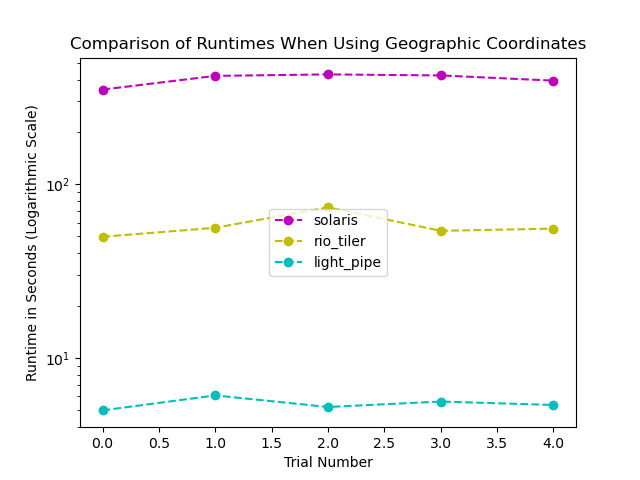
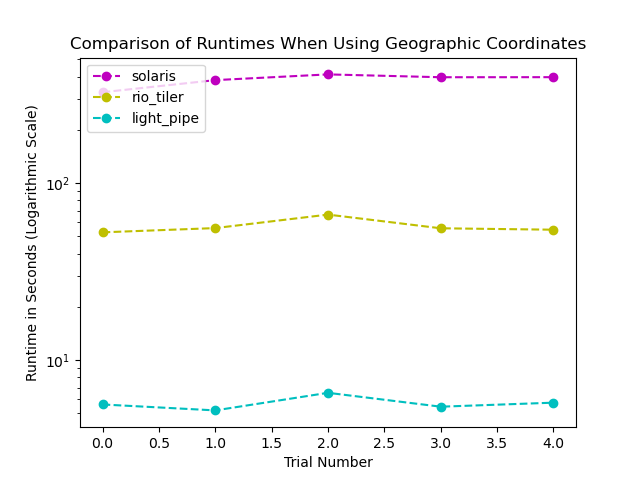
Update docs

diff --git a/docs/index.html b/docs/index.html
@@ -34,16 +34,16 @@
 <p>Here, we're concerned with two measures of efficiency: (a) the length of time it takes to process the data, and (b) the amount of storage space necessary to do so. Although Light-Pipe allows the user to save tiles (i.e. write to disk), this is generally undesirable when working with large quantities of data, since doing so may more than double the disk space required to conduct an analysis. For this reason, Light-Pipe can operate in-memory, which means that no extra storage space is required to process data, and you needn't write anything to disk when using it (unless you want to). Such transformations can be performed "on-the-fly", meaning that Light-Pipe transforms input data as it is needed, with no pre-processing step required. As we'll see below, Light-Pipe is so fast that users may prefer to prepare their data on-the-fly rather than in a batch pre-processing step, even during model training.</p>
 <p>To test Light-Pipe's performance on this task, let's compare it with existing tools. Although there are other tools for the task of raster tiling, two of the best and most popular are <a href="https://github.com/cogeotiff/rio-tiler"><code>rio-tiler</code></a> and <a href="https://github.com/CosmiQ/solaris"><code>solaris</code></a>. Both have (reasonably) large userbases and feature contributions from skilled developers. As mentioned previously, there are other tools that perform similar functions (such as <a href="https://github.com/azavea/raster-vision"><code>rastervision</code></a>), but they generally use a similar implementation to either <code>rio-tiler</code> or <code>solaris</code>. <code>rastervision</code>, for example, produces image tiles by essentially the same process as <code>solaris</code>.</p>
 <p>For this test, we'll use the GeoTiff image found <a href="https://s3.amazonaws.com/spacenet-dataset/AOIs/AOI_1_Rio/PS-RGB/PS-RGB_mosaic_013022223133.tif">here</a> (CAUTION, clicking this link will automatically download the file). In the test scripts linked below, this is the file stored at <code>'./data/big_image.tif'</code>. </p>
-<p>We'll test two methods of tile generation. The first method simply involves reading sub-arrays from the input image of a specified width and height (in pixels). The second method requires extracting regions from the input image specified in geographic coordinates (e.g. degrees of latitude/longitude), not in pixel coordinates as in the first method. This method is more difficult, as the input image may not use the same coordinate reference system used to specify the coordinates for sub-sampling, and therefore the image may need to be reprojected into the target coordinate reference system first. Also, there are no guarantees in general that the specified coordinates for a region align with the locations of the pixels even after the input image has been reprojected into the same coordinate reference system. Although it is more computationally-expensive to tile according to geographic coordinates rather than pixel coordinates, tiling using geographic coordinates is necessary in general when making imagery sequences with rasters. This means that sequential models such as <a href="https://en.wikipedia.org/wiki/Long_short-term_memory">Long short-term memory networks</a> require input tiles which have been subdivided using geographic coordinates, assuming the goal is to generate predictions corresponding to target locations. In short, there are very good reasons to use this approach for tiling since it allows the user to use new classes of models and perform analyses which they couldn't have done otherwise.</p>
+<p>We'll test two methods of tile generation. The first method simply involves reading sub-arrays from the input image of a specified width and height (in pixels). The second method requires extracting regions from the input image specified in geographic coordinates (e.g. degrees of latitude/longitude), not in pixel coordinates as in the first method. This method is more difficult, as the input image may not use the same coordinate reference system used to specify the coordinates for sub-sampling, and therefore the image may need to be reprojected into the target coordinate reference system first. Also, there are no guarantees in general that the specified coordinates for a region align with the locations of the pixels even after the input image has been reprojected into the same coordinate reference system. Although it is more computationally-expensive to tile according to geographic coordinates rather than pixel coordinates, tiling using geographic coordinates is necessary in general when making imagery sequences with rasters. This means that sequential models such as <a href="https://en.wikipedia.org/wiki/Long_short-term_memory">long short-term memory networks</a> require input tiles which have been subdivided using geographic coordinates, assuming the goal is to generate predictions corresponding to target locations. In short, there are very good reasons to use this approach for tiling since it allows the user to use new classes of models and perform analyses which they couldn't have done otherwise.</p>
 <h4 id="results">Results</h4>
 <p>Below is a chart displaying the runtime (in seconds) for both Light-Pipe and <code>solaris</code> when extracting sub-regions of an image specified in <em>pixel coordinates</em>. As far as I'm aware it's impossible to perform this task directly using <code>rio-tiler</code>, so it was excluded from this test:</p>
 <blockquote>
-<p><a href="https://github.com/rcorrero/light-pipe/blob/master/data/plots/test_pixel_tiling.png">Comparison of Runtimes When Using Pixel Coordinates</a></p>
+<p><a href="https://github.com/rcorrero/light-pipe/blob/master/data/plots/test_pixel_tiling.png"><em>Comparison of Runtimes When Using Pixel Coordinates</em></a></p>
 </blockquote>
 <p>These results were generated using <a href="https://github.com/rcorrero/light-pipe/blob/master/tests/test_pixel_tiling.py">this script</a>, which you should test out yourself so that you don't have to take my word for it. These results were obtained on my local machine, which has an AMD Ryzen 5 2600 processor with 16 GB of DDR4 SDRAM and an SDD. Multiple trials were conducted for each method, and the order in which the trials were conducted was randomly-chosen.</p>
 <p>Next, I tested the performance of the three methods when extracting sub-regions specified in <em>geographic coordinates</em>:</p>
 <blockquote>
-<p><a href="https://github.com/rcorrero/light-pipe/blob/master/data/plots/test_geo_tiling.png">Comparison of Runtimes When Using Geographic Coordinates</a></p>
+<p><a href="https://github.com/rcorrero/light-pipe/blob/master/data/plots/test_geo_tiling.png"><em>Comparison of Runtimes When Using Geographic Coordinates</em></a></p>
 </blockquote>
 <p><a href="https://github.com/rcorrero/light-pipe/blob/master/tests/test_geo_tiling.py">This script</a> was used to obtain these results, and again I performed this test on my local machine.</p>
 <p>We see that Light-Pipe handily outperforms the alternatives on both tasks. This test is essentially a <em>worst-case</em> test for Light-Pipe, which is designed with concurrency tools which are most useful when processing large numbers of samples. Here we only process a single sample, giving the other two methods the best possible chance. When training a model, and especially when running a model in production, one may need to process thousands or even millions of images, which is where Light-Pipe's concurrency tools make it extremely attractive. </p>
@@ -143,19 +143,19 @@ To test Light-Pipe&#39;s performance on this task, let&#39;s compare it with exi
 
 For this test, we&#39;ll use the GeoTiff image found [here](https://s3.amazonaws.com/spacenet-dataset/AOIs/AOI_1_Rio/PS-RGB/PS-RGB_mosaic_013022223133.tif) (CAUTION, clicking this link will automatically download the file). In the test scripts linked below, this is the file stored at `&#39;./data/big_image.tif&#39;`. 
 
-We&#39;ll test two methods of tile generation. The first method simply involves reading sub-arrays from the input image of a specified width and height (in pixels). The second method requires extracting regions from the input image specified in geographic coordinates (e.g. degrees of latitude/longitude), not in pixel coordinates as in the first method. This method is more difficult, as the input image may not use the same coordinate reference system used to specify the coordinates for sub-sampling, and therefore the image may need to be reprojected into the target coordinate reference system first. Also, there are no guarantees in general that the specified coordinates for a region align with the locations of the pixels even after the input image has been reprojected into the same coordinate reference system. Although it is more computationally-expensive to tile according to geographic coordinates rather than pixel coordinates, tiling using geographic coordinates is necessary in general when making imagery sequences with rasters. This means that sequential models such as [Long short-term memory networks](https://en.wikipedia.org/wiki/Long_short-term_memory) require input tiles which have been subdivided using geographic coordinates, assuming the goal is to generate predictions corresponding to target locations. In short, there are very good reasons to use this approach for tiling since it allows the user to use new classes of models and perform analyses which they couldn&#39;t have done otherwise.
+We&#39;ll test two methods of tile generation. The first method simply involves reading sub-arrays from the input image of a specified width and height (in pixels). The second method requires extracting regions from the input image specified in geographic coordinates (e.g. degrees of latitude/longitude), not in pixel coordinates as in the first method. This method is more difficult, as the input image may not use the same coordinate reference system used to specify the coordinates for sub-sampling, and therefore the image may need to be reprojected into the target coordinate reference system first. Also, there are no guarantees in general that the specified coordinates for a region align with the locations of the pixels even after the input image has been reprojected into the same coordinate reference system. Although it is more computationally-expensive to tile according to geographic coordinates rather than pixel coordinates, tiling using geographic coordinates is necessary in general when making imagery sequences with rasters. This means that sequential models such as [long short-term memory networks](https://en.wikipedia.org/wiki/Long_short-term_memory) require input tiles which have been subdivided using geographic coordinates, assuming the goal is to generate predictions corresponding to target locations. In short, there are very good reasons to use this approach for tiling since it allows the user to use new classes of models and perform analyses which they couldn&#39;t have done otherwise.
 
 #### Results
 
 Below is a chart displaying the runtime (in seconds) for both Light-Pipe and `solaris` when extracting sub-regions of an image specified in _pixel coordinates_. As far as I&#39;m aware it&#39;s impossible to perform this task directly using `rio-tiler`, so it was excluded from this test:
 
-&gt; [Comparison of Runtimes When Using Pixel Coordinates](https://github.com/rcorrero/light-pipe/blob/master/data/plots/test_pixel_tiling.png)
+&gt; [_Comparison of Runtimes When Using Pixel Coordinates_](https://github.com/rcorrero/light-pipe/blob/master/data/plots/test_pixel_tiling.png)
 
 These results were generated using [this script](https://github.com/rcorrero/light-pipe/blob/master/tests/test_pixel_tiling.py), which you should test out yourself so that you don&#39;t have to take my word for it. These results were obtained on my local machine, which has an AMD Ryzen 5 2600 processor with 16 GB of DDR4 SDRAM and an SDD. Multiple trials were conducted for each method, and the order in which the trials were conducted was randomly-chosen.
 
 Next, I tested the performance of the three methods when extracting sub-regions specified in _geographic coordinates_:
 
-&gt; [Comparison of Runtimes When Using Geographic Coordinates](https://github.com/rcorrero/light-pipe/blob/master/data/plots/test_geo_tiling.png)
+&gt; [_Comparison of Runtimes When Using Geographic Coordinates_](https://github.com/rcorrero/light-pipe/blob/master/data/plots/test_geo_tiling.png)
 
 [This script](https://github.com/rcorrero/light-pipe/blob/master/tests/test_geo_tiling.py) was used to obtain these results, and again I performed this test on my local machine.
 

diff --git a/light_pipe/__init__.py b/light_pipe/__init__.py
@@ -28,19 +28,19 @@ To test Light-Pipe's performance on this task, let's compare it with existing to
 
 For this test, we'll use the GeoTiff image found [here](https://s3.amazonaws.com/spacenet-dataset/AOIs/AOI_1_Rio/PS-RGB/PS-RGB_mosaic_013022223133.tif) (CAUTION, clicking this link will automatically download the file). In the test scripts linked below, this is the file stored at `'./data/big_image.tif'`. 
 
-We'll test two methods of tile generation. The first method simply involves reading sub-arrays from the input image of a specified width and height (in pixels). The second method requires extracting regions from the input image specified in geographic coordinates (e.g. degrees of latitude/longitude), not in pixel coordinates as in the first method. This method is more difficult, as the input image may not use the same coordinate reference system used to specify the coordinates for sub-sampling, and therefore the image may need to be reprojected into the target coordinate reference system first. Also, there are no guarantees in general that the specified coordinates for a region align with the locations of the pixels even after the input image has been reprojected into the same coordinate reference system. Although it is more computationally-expensive to tile according to geographic coordinates rather than pixel coordinates, tiling using geographic coordinates is necessary in general when making imagery sequences with rasters. This means that sequential models such as [Long short-term memory networks](https://en.wikipedia.org/wiki/Long_short-term_memory) require input tiles which have been subdivided using geographic coordinates, assuming the goal is to generate predictions corresponding to target locations. In short, there are very good reasons to use this approach for tiling since it allows the user to use new classes of models and perform analyses which they couldn't have done otherwise.
+We'll test two methods of tile generation. The first method simply involves reading sub-arrays from the input image of a specified width and height (in pixels). The second method requires extracting regions from the input image specified in geographic coordinates (e.g. degrees of latitude/longitude), not in pixel coordinates as in the first method. This method is more difficult, as the input image may not use the same coordinate reference system used to specify the coordinates for sub-sampling, and therefore the image may need to be reprojected into the target coordinate reference system first. Also, there are no guarantees in general that the specified coordinates for a region align with the locations of the pixels even after the input image has been reprojected into the same coordinate reference system. Although it is more computationally-expensive to tile according to geographic coordinates rather than pixel coordinates, tiling using geographic coordinates is necessary in general when making imagery sequences with rasters. This means that sequential models such as [long short-term memory networks](https://en.wikipedia.org/wiki/Long_short-term_memory) require input tiles which have been subdivided using geographic coordinates, assuming the goal is to generate predictions corresponding to target locations. In short, there are very good reasons to use this approach for tiling since it allows the user to use new classes of models and perform analyses which they couldn't have done otherwise.
 
 #### Results
 
 Below is a chart displaying the runtime (in seconds) for both Light-Pipe and `solaris` when extracting sub-regions of an image specified in _pixel coordinates_. As far as I'm aware it's impossible to perform this task directly using `rio-tiler`, so it was excluded from this test:
 
-> [Comparison of Runtimes When Using Pixel Coordinates](https://github.com/rcorrero/light-pipe/blob/master/data/plots/test_pixel_tiling.png)
+> [_Comparison of Runtimes When Using Pixel Coordinates_](https://github.com/rcorrero/light-pipe/blob/master/data/plots/test_pixel_tiling.png)
 
 These results were generated using [this script](https://github.com/rcorrero/light-pipe/blob/master/tests/test_pixel_tiling.py), which you should test out yourself so that you don't have to take my word for it. These results were obtained on my local machine, which has an AMD Ryzen 5 2600 processor with 16 GB of DDR4 SDRAM and an SDD. Multiple trials were conducted for each method, and the order in which the trials were conducted was randomly-chosen.
 
 Next, I tested the performance of the three methods when extracting sub-regions specified in _geographic coordinates_:
 
-> [Comparison of Runtimes When Using Geographic Coordinates](https://github.com/rcorrero/light-pipe/blob/master/data/plots/test_geo_tiling.png)
+> [_Comparison of Runtimes When Using Geographic Coordinates_](https://github.com/rcorrero/light-pipe/blob/master/data/plots/test_geo_tiling.png)
 
 [This script](https://github.com/rcorrero/light-pipe/blob/master/tests/test_geo_tiling.py) was used to obtain these results, and again I performed this test on my local machine.
 

diff --git a/tests/test_pixel_tiling.py b/tests/test_pixel_tiling.py
@@ -90,7 +90,7 @@ if __name__ == "__main__":
     for key, val in res.items():
         plt.plot(x, val, linestyle='--', marker='o', label=key, color=colors[key])
     plt.yscale('log', base=10)         
-    plt.legend()
+    plt.legend(loc="upper left")
     plt.savefig(plt_savepath)
 
     if os.path.exists(raster_dest_dir):

diff --git a/tests/test_geo_tiling.py b/tests/test_geo_tiling.py
@@ -137,7 +137,7 @@ if __name__ == "__main__":
     for key, val in res.items():
         plt.plot(x, val, linestyle='--', marker='o', label=key, color=colors[key])
     plt.yscale('log', base=10) 
-    plt.legend()
+    plt.legend(loc="upper left")
     plt.savefig(plt_savepath)
 
     if os.path.exists(raster_dest_dir):

diff --git a/README.md b/README.md
@@ -22,19 +22,19 @@ To test Light-Pipe's performance on this task, let's compare it with existing to
 
 For this test, we'll use the GeoTiff image found [here](https://s3.amazonaws.com/spacenet-dataset/AOIs/AOI_1_Rio/PS-RGB/PS-RGB_mosaic_013022223133.tif) (CAUTION, clicking this link will automatically download the file). In the test scripts linked below, this is the file stored at `'./data/big_image.tif'`. 
 
-We'll test two methods of tile generation. The first method simply involves reading sub-arrays from the input image of a specified width and height (in pixels). The second method requires extracting regions from the input image specified in geographic coordinates (e.g. degrees of latitude/longitude), not in pixel coordinates as in the first method. This method is more difficult, as the input image may not use the same coordinate reference system used to specify the coordinates for sub-sampling, and therefore the image may need to be reprojected into the target coordinate reference system first. Also, there are no guarantees in general that the specified coordinates for a region align with the locations of the pixels even after the input image has been reprojected into the same coordinate reference system. Although it is more computationally-expensive to tile according to geographic coordinates rather than pixel coordinates, tiling using geographic coordinates is necessary in general when making imagery sequences with rasters. This means that sequential models such as [Long short-term memory networks](https://en.wikipedia.org/wiki/Long_short-term_memory) require input tiles which have been subdivided using geographic coordinates, assuming the goal is to generate predictions corresponding to target locations. In short, there are very good reasons to use this approach for tiling since it allows the user to use new classes of models and perform analyses which they couldn't have done otherwise.
+We'll test two methods of tile generation. The first method simply involves reading sub-arrays from the input image of a specified width and height (in pixels). The second method requires extracting regions from the input image specified in geographic coordinates (e.g. degrees of latitude/longitude), not in pixel coordinates as in the first method. This method is more difficult, as the input image may not use the same coordinate reference system used to specify the coordinates for sub-sampling, and therefore the image may need to be reprojected into the target coordinate reference system first. Also, there are no guarantees in general that the specified coordinates for a region align with the locations of the pixels even after the input image has been reprojected into the same coordinate reference system. Although it is more computationally-expensive to tile according to geographic coordinates rather than pixel coordinates, tiling using geographic coordinates is necessary in general when making imagery sequences with rasters. This means that sequential models such as [long short-term memory networks](https://en.wikipedia.org/wiki/Long_short-term_memory) require input tiles which have been subdivided using geographic coordinates, assuming the goal is to generate predictions corresponding to target locations. In short, there are very good reasons to use this approach for tiling since it allows the user to use new classes of models and perform analyses which they couldn't have done otherwise.
 
 #### Results
 
 Below is a chart displaying the runtime (in seconds) for both Light-Pipe and `solaris` when extracting sub-regions of an image specified in _pixel coordinates_. As far as I'm aware it's impossible to perform this task directly using `rio-tiler`, so it was excluded from this test:
 
-> [Comparison of Runtimes When Using Pixel Coordinates](https://github.com/rcorrero/light-pipe/blob/master/data/plots/test_pixel_tiling.png)
+> [_Comparison of Runtimes When Using Pixel Coordinates_](https://github.com/rcorrero/light-pipe/blob/master/data/plots/test_pixel_tiling.png)
 
 These results were generated using [this script](https://github.com/rcorrero/light-pipe/blob/master/tests/test_pixel_tiling.py), which you should test out yourself so that you don't have to take my word for it. These results were obtained on my local machine, which has an AMD Ryzen 5 2600 processor with 16 GB of DDR4 SDRAM and an SDD. Multiple trials were conducted for each method, and the order in which the trials were conducted was randomly-chosen.
 
 Next, I tested the performance of the three methods when extracting sub-regions specified in _geographic coordinates_:
 
-> [Comparison of Runtimes When Using Geographic Coordinates](https://github.com/rcorrero/light-pipe/blob/master/data/plots/test_geo_tiling.png)
+> [_Comparison of Runtimes When Using Geographic Coordinates_](https://github.com/rcorrero/light-pipe/blob/master/data/plots/test_geo_tiling.png)
 
 [This script](https://github.com/rcorrero/light-pipe/blob/master/tests/test_geo_tiling.py) was used to obtain these results, and again I performed this test on my local machine.
 
